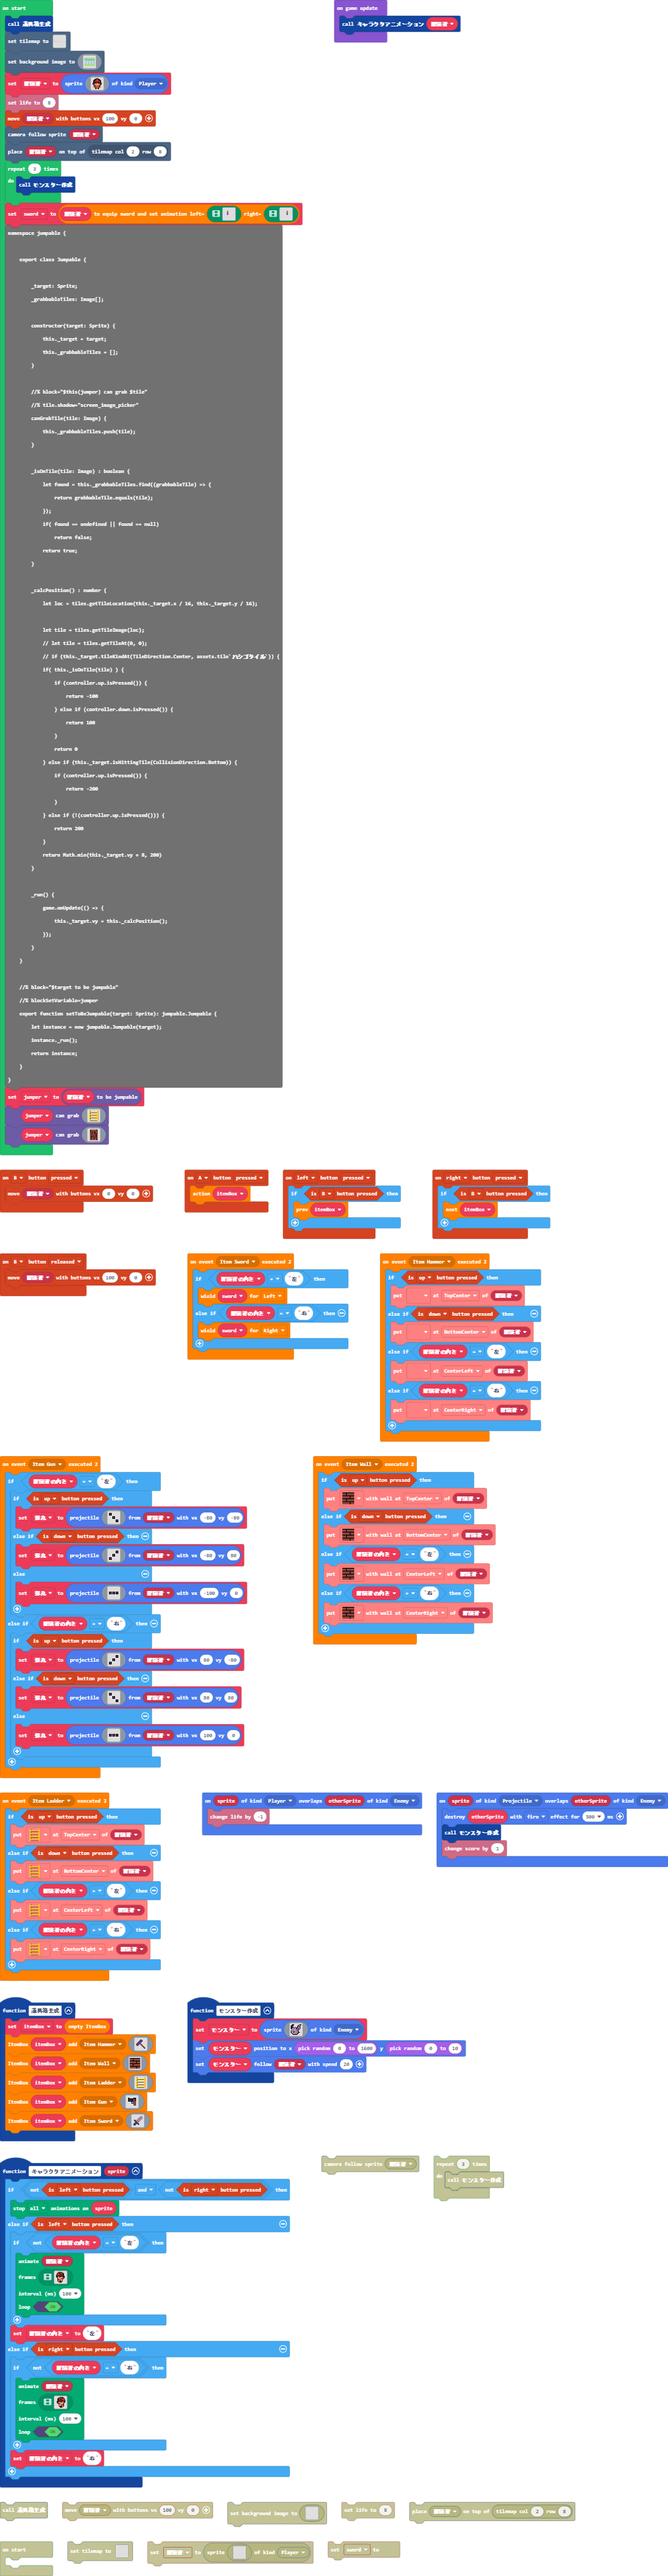
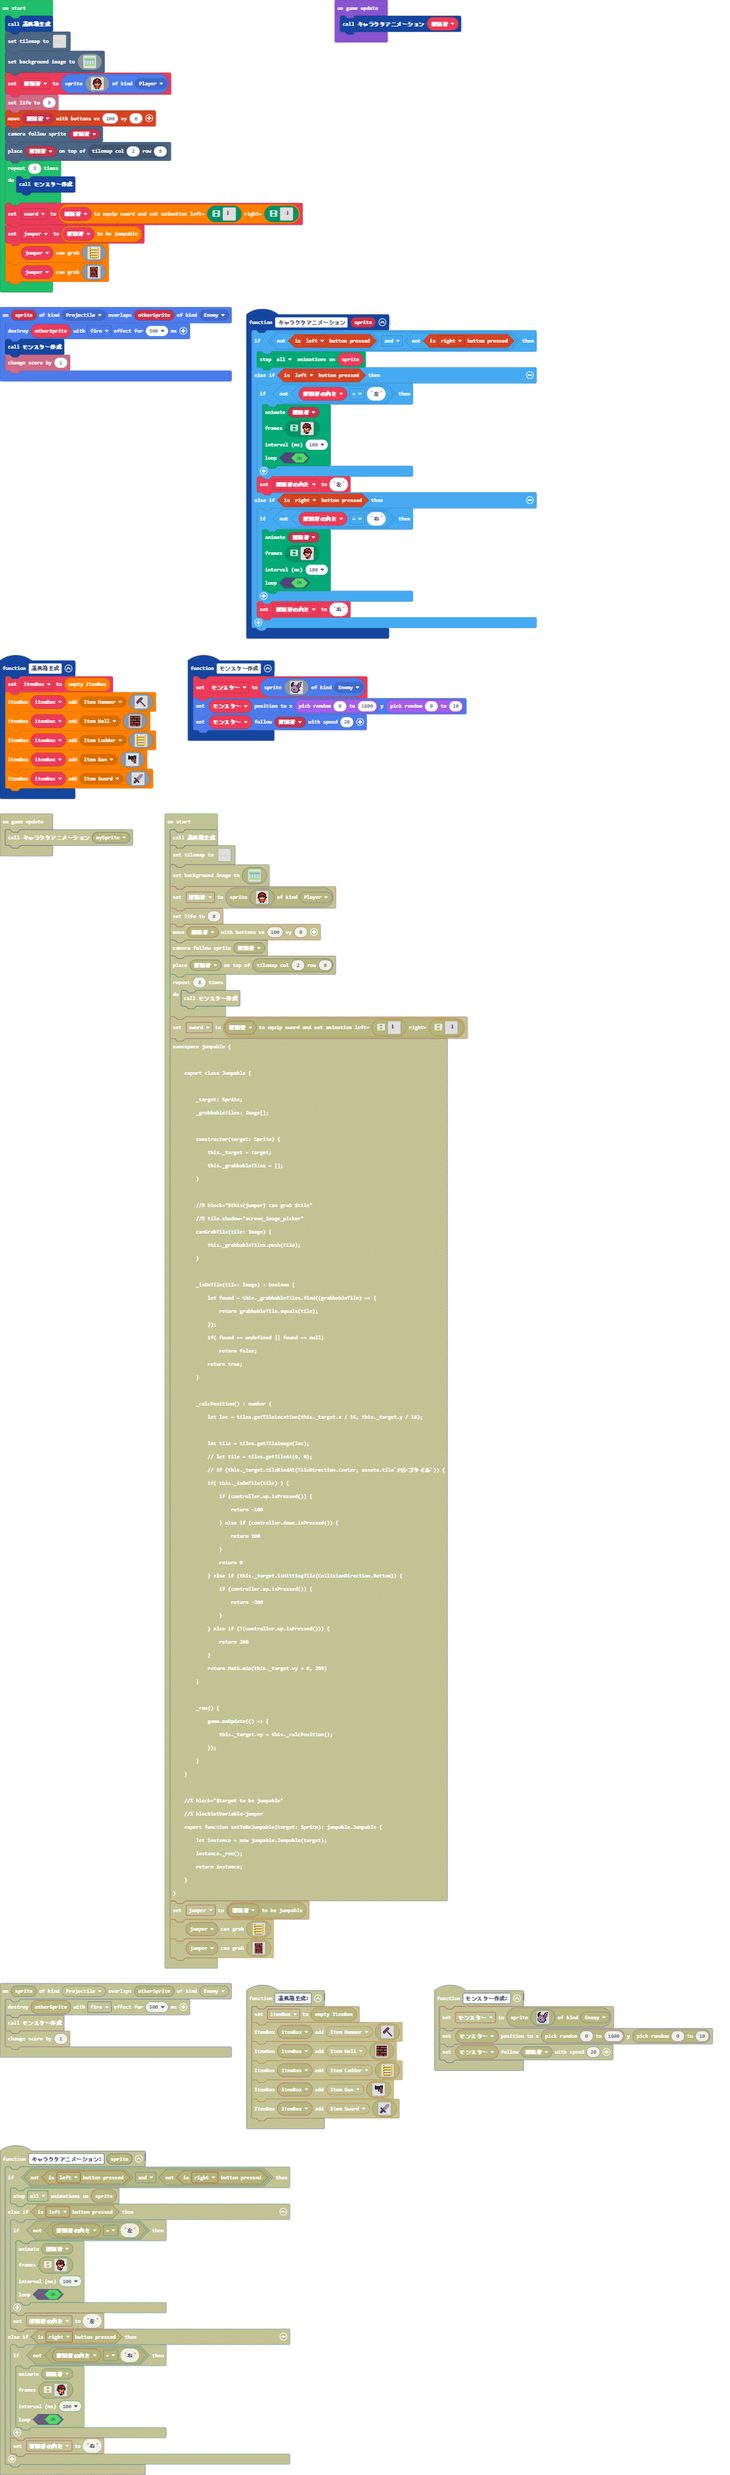
Update pxt.json, main.blocks, main.ts, tilemap.g.jres, tilemap.g.ts, jumpable.ts

diff --git a/main.ts b/main.ts
@@ -441,71 +441,6 @@ for (let index = 0; index < 3; index++) {
     モンスター作成()
 }
 sword = weapons.sword.equipSword(冒険者, assets.animation`sword_left_anim`, assets.animation`sword_right_anim`)
-namespace jumpable {
-
-    export class Jumpable {
-
-        _target: Sprite;
-        _grabbableTiles: Image[];
-
-        constructor(target: Sprite) {
-            this._target = target;
-            this._grabbableTiles = [];
-        }
-
-        //% block="$this(jumper) can grab $tile"
-        //% tile.shadow="screen_image_picker"
-        canGrabTile(tile: Image) {
-            this._grabbableTiles.push(tile);
-        }
-
-        _isOnTile(tile: Image) : boolean {
-            let found = this._grabbableTiles.find((grabbableTile) => {
-                return grabbableTile.equals(tile);
-            });
-            if( found == undefined || found == null)
-                return false;
-            return true;
-        }
-
-        _calcPosition() : number {
-            let loc = tiles.getTileLocation(this._target.x / 16, this._target.y / 16);
-
-            let tile = tiles.getTileImage(loc);
-            // let tile = tiles.getTileAt(0, 0);
-            // if (this._target.tileKindAt(TileDirection.Center, assets.tile`ハシゴタイル`)) {
-            if( this._isOnTile(tile) ) {
-                if (controller.up.isPressed()) {
-                    return -100
-                } else if (controller.down.isPressed()) {
-                    return 100
-                }
-                return 0
-            } else if (this._target.isHittingTile(CollisionDirection.Bottom)) {
-                if (controller.up.isPressed()) {
-                    return -200
-                }
-            } else if (!(controller.up.isPressed())) {
-                return 200
-            }
-            return Math.min(this._target.vy + 8, 200)
-        }
-
-        _run() {
-            game.onUpdate(() => {
-                this._target.vy = this._calcPosition();
-            });
-        }
-    }
-
-    //% block="$target to be jumpable"
-    //% blockSetVariable=jumper
-    export function setToBeJumpable(target: Sprite): jumpable.Jumpable {
-        let instance = new jumpable.Jumpable(target);
-        instance._run();
-        return instance;
-    }    
-}
 let jumper = jumpable.setToBeJumpable(冒険者)
 jumper.canGrabTile(assets.tile`ハシゴタイル`)
 jumper.canGrabTile(assets.tile`tree1`)

diff --git a/jumpable.ts b/jumpable.ts
@@ -1,0 +1,66 @@
+//% blockNamespace=Jumpable color="#FF8000"
+namespace jumpable {
+
+    export class Jumpable {
+
+        _target: Sprite;
+        _grabbableTiles: Image[];
+
+        constructor(target: Sprite) {
+            this._target = target;
+            this._grabbableTiles = [];
+        }
+
+        //% block="$this(jumper) can grab $tile"
+        //% tile.shadow="screen_image_picker"
+        canGrabTile(tile: Image) {
+            this._grabbableTiles.push(tile);
+        }
+
+        _isOnTile(tile: Image) : boolean {
+            let found = this._grabbableTiles.find((grabbableTile) => {
+                return grabbableTile.equals(tile);
+            });
+            if( found == undefined || found == null)
+                return false;
+            return true;
+        }
+
+        _calcPosition() : number {
+            let loc = tiles.getTileLocation(this._target.x / 16, this._target.y / 16);
+
+            let tile = tiles.getTileImage(loc);
+            // let tile = tiles.getTileAt(0, 0);
+            // if (this._target.tileKindAt(TileDirection.Center, assets.tile`ハシゴタイル`)) {
+            if( this._isOnTile(tile) ) {
+                if (controller.up.isPressed()) {
+                    return -100
+                } else if (controller.down.isPressed()) {
+                    return 100
+                }
+                return 0
+            } else if (this._target.isHittingTile(CollisionDirection.Bottom)) {
+                if (controller.up.isPressed()) {
+                    return -200
+                }
+            } else if (!(controller.up.isPressed())) {
+                return 200
+            }
+            return Math.min(this._target.vy + 8, 200)
+        }
+
+        _run() {
+            game.onUpdate(() => {
+                this._target.vy = this._calcPosition();
+            });
+        }
+    }
+
+    //% block="$target to be jumpable"
+    //% blockSetVariable=jumper
+    export function setToBeJumpable(target: Sprite): jumpable.Jumpable {
+        let instance = new jumpable.Jumpable(target);
+        instance._run();
+        return instance;
+    }    
+}

diff --git a/tilemap.g.ts b/tilemap.g.ts
@@ -201,6 +201,25 @@ namespace myTiles {
 2222222222222222222222222222222222222222222222222222222222222222222222222222222222222222222222222222
 2222222222222222222222222222222222222222222222222222222222222222222222222222222222222222222222222222
 `, [myTiles.transparency16,sprites.castle.tilePath5,sprites.castle.tilePath2,sprites.castle.tilePath1,sprites.castle.tilePath3,sprites.castle.tilePath6,sprites.castle.tilePath8,sprites.castle.tilePath9,myTiles.tile2,myTiles.tile1,myTiles.tile3,sprites.builtin.forestTiles0], TileScale.Sixteen);
+            case "level11":
+            case "level11":return tiles.createTilemap(hex`1000100000000000000000000000000000000000000000000000000000000000000000000000000000000000000000000000000000000000000000000000000000000000000000000000000000000000000000000000000000000000000000000000000000000000000000000000000000000000000000000000000000000000000000000000000000000000000000000000000000000000000000000000000000000000000000000000000000000000000000000000000000000000000000000000000000000000000000000000000000000000000000000000000000000000000000000000000000000000000000000000000000000000000000000000000000000000`, img`
+. . . . . . . . . . . . . . . . 
+. . . . . . . . . . . . . . . . 
+. . . . . . . . . . . . . . . . 
+. . . . . . . . . . . . . . . . 
+. . . . . . . . . . . . . . . . 
+. . . . . . . . . . . . . . . . 
+. . . . . . . . . . . . . . . . 
+. . . . . . . . . . . . . . . . 
+. . . . . . . . . . . . . . . . 
+. . . . . . . . . . . . . . . . 
+. . . . . . . . . . . . . . . . 
+. . . . . . . . . . . . . . . . 
+. . . . . . . . . . . . . . . . 
+. . . . . . . . . . . . . . . . 
+. . . . . . . . . . . . . . . . 
+. . . . . . . . . . . . . . . . 
+`, [myTiles.transparency16], TileScale.Sixteen);
         }
         return null;
     })
